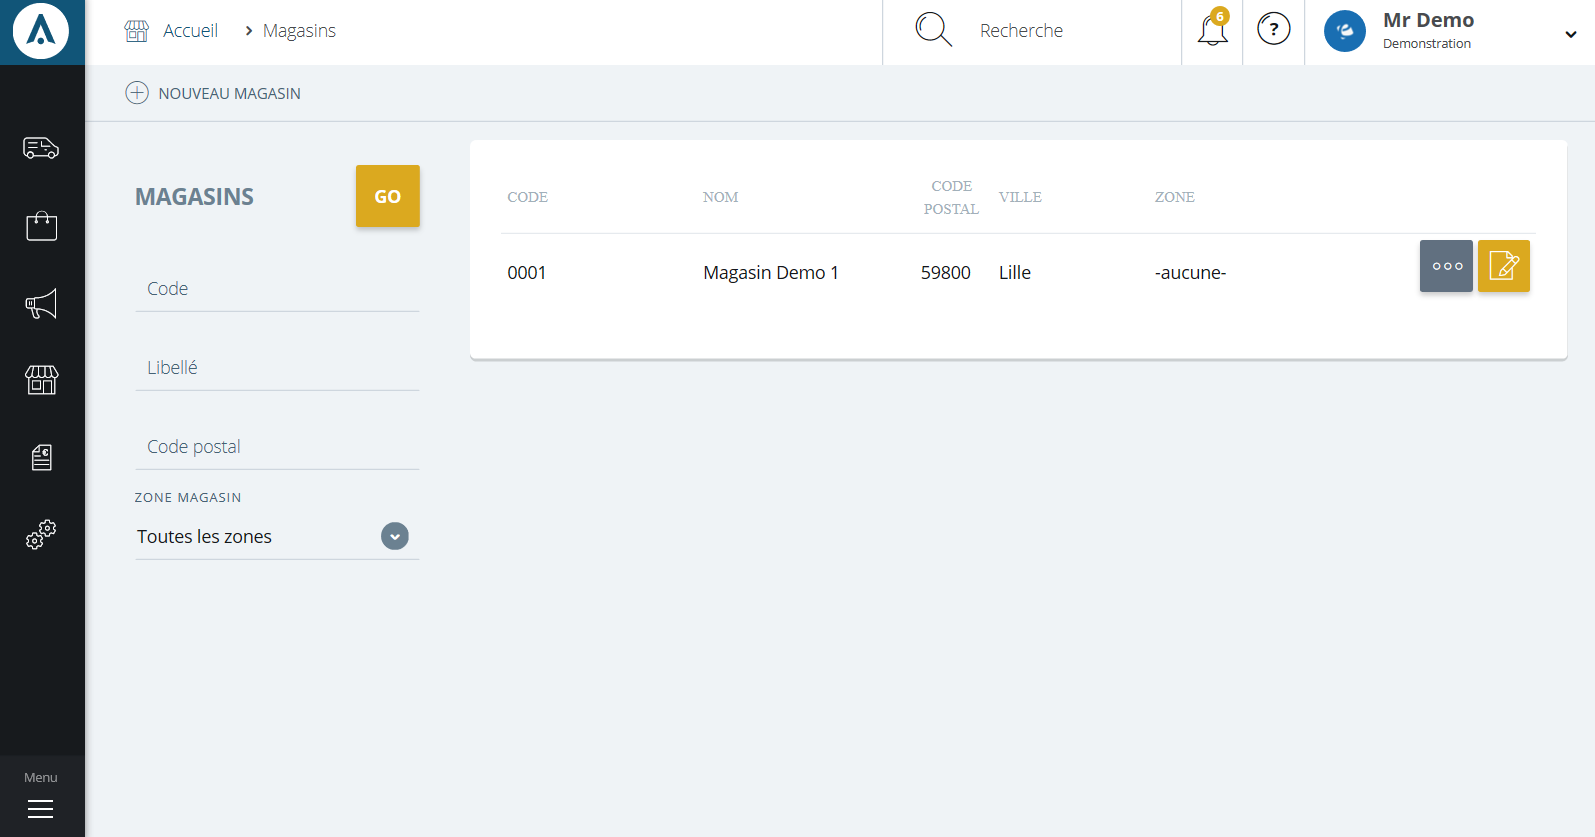
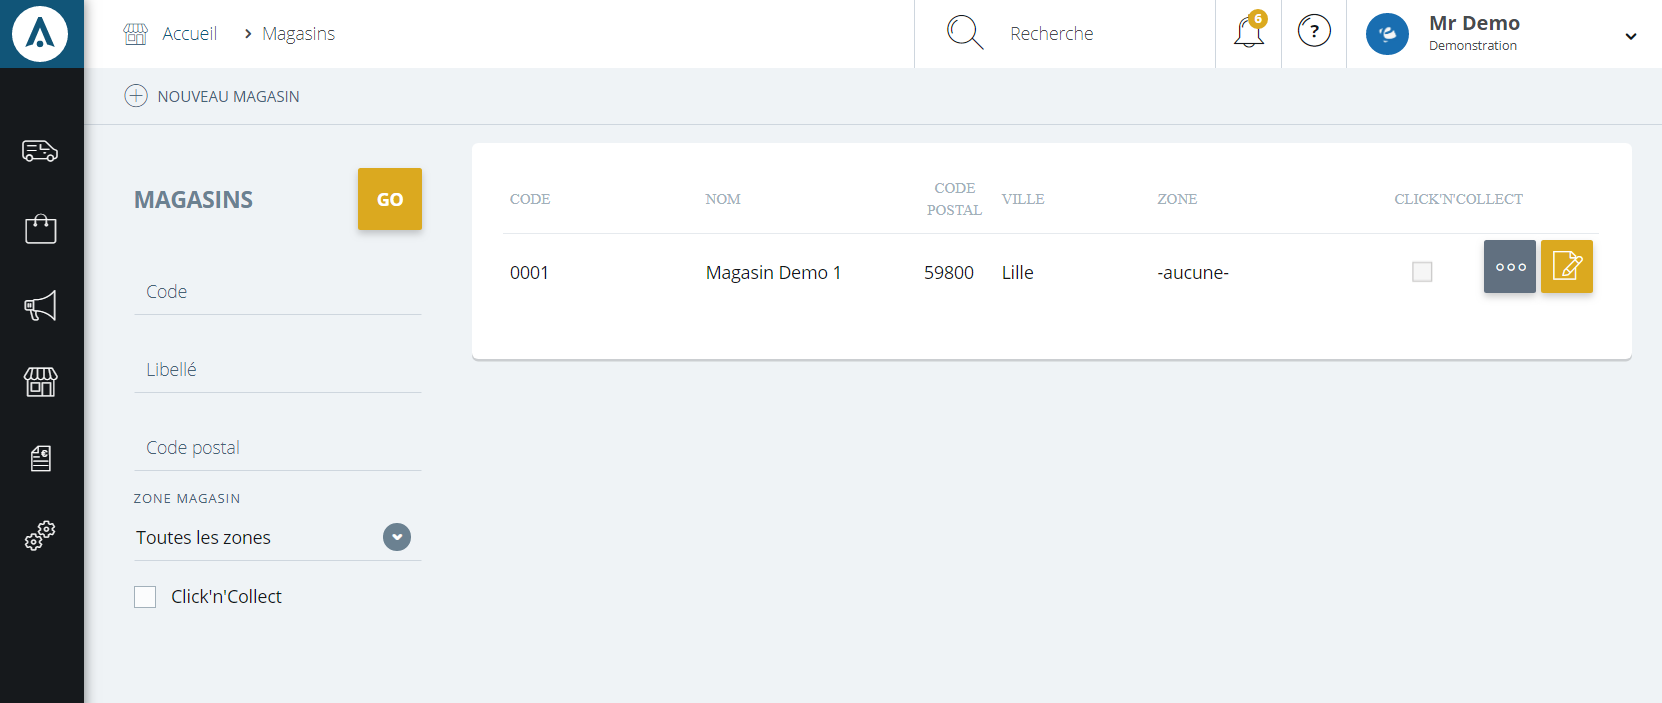
Corrections sur les magasins

diff --git a/fr-fr/office/points-de-vente/Magasins/Gestion/index.md b/fr-fr/office/points-de-vente/Magasins/Gestion/index.md
@@ -19,6 +19,7 @@ Vous pouvez lancer une recherche de magasin avec les critères suivants :
 2.  Son **libellé** (son nom)
 3.  Son **code postal**
 4.  Sa **zone du magasin**
+5. Les services principaux que le magasin doit proposer.
 
 Pour lancer la recherche, cliquez sur le bouton de lancement **Go** (5)
 
@@ -37,7 +38,8 @@ Vous pourrez voir :
 3.  Son **code postal**
 4.  Sa **ville**
 5.  Sa **zone d'activité**
-6.  Son **menu de commande** qui permet **d'archiver** un magasin
+6.  Si vous avez définit des services magasins principaux, vous retrouverez une colonne pour chacun d'entre eux (dans la copie ci-dessus : le service "Click'n'Collect")
+7.  Son **menu de commande** qui permet **d'archiver** un magasin
 
 Pour modifier ou accéder aux informations, cliquez sur le lien bleu **Ouvrir** (G)
 
@@ -45,9 +47,7 @@ Pour modifier ou accéder aux informations, cliquez sur le lien bleu **Ouvrir** 
 
 La **commande d'action** que vous pouvez apercevoir près du titre, correspond au menu de commande.
 
-Ce menu vous permet d'accéder à différentes commande qui vous permettront de gérer vos articles.
-
-_Exemple_ de commande que vous pouvez avoir :
+Ce menu vous permet d'accéder à différentes commandes qui vous permettront de gérer vos articles.
 
 |Action||
 |---|---|

diff --git a/fr-fr/office/points-de-vente/Magasins/Gestion/evenements.md b/fr-fr/office/points-de-vente/Magasins/Gestion/evenements.md
@@ -19,4 +19,4 @@ _Exemple_ de commande dont vous pouvez disposer :
 
 |Action||
 |---|---|
-|**[Nouvel événement](/fr-fr/office/points-de-vente/Evenements.aspx/EditEvenment.aspx)**|Cette action permet d'accéder au formulaire vous permettant de créer un nouvel événement.|
+|**[Nouvel événement](/fr-fr/office/points-de-vente/Evenements.aspx/EditEvenement.md)**|Cette action permet d'accéder au formulaire vous permettant de créer un nouvel événement.|
